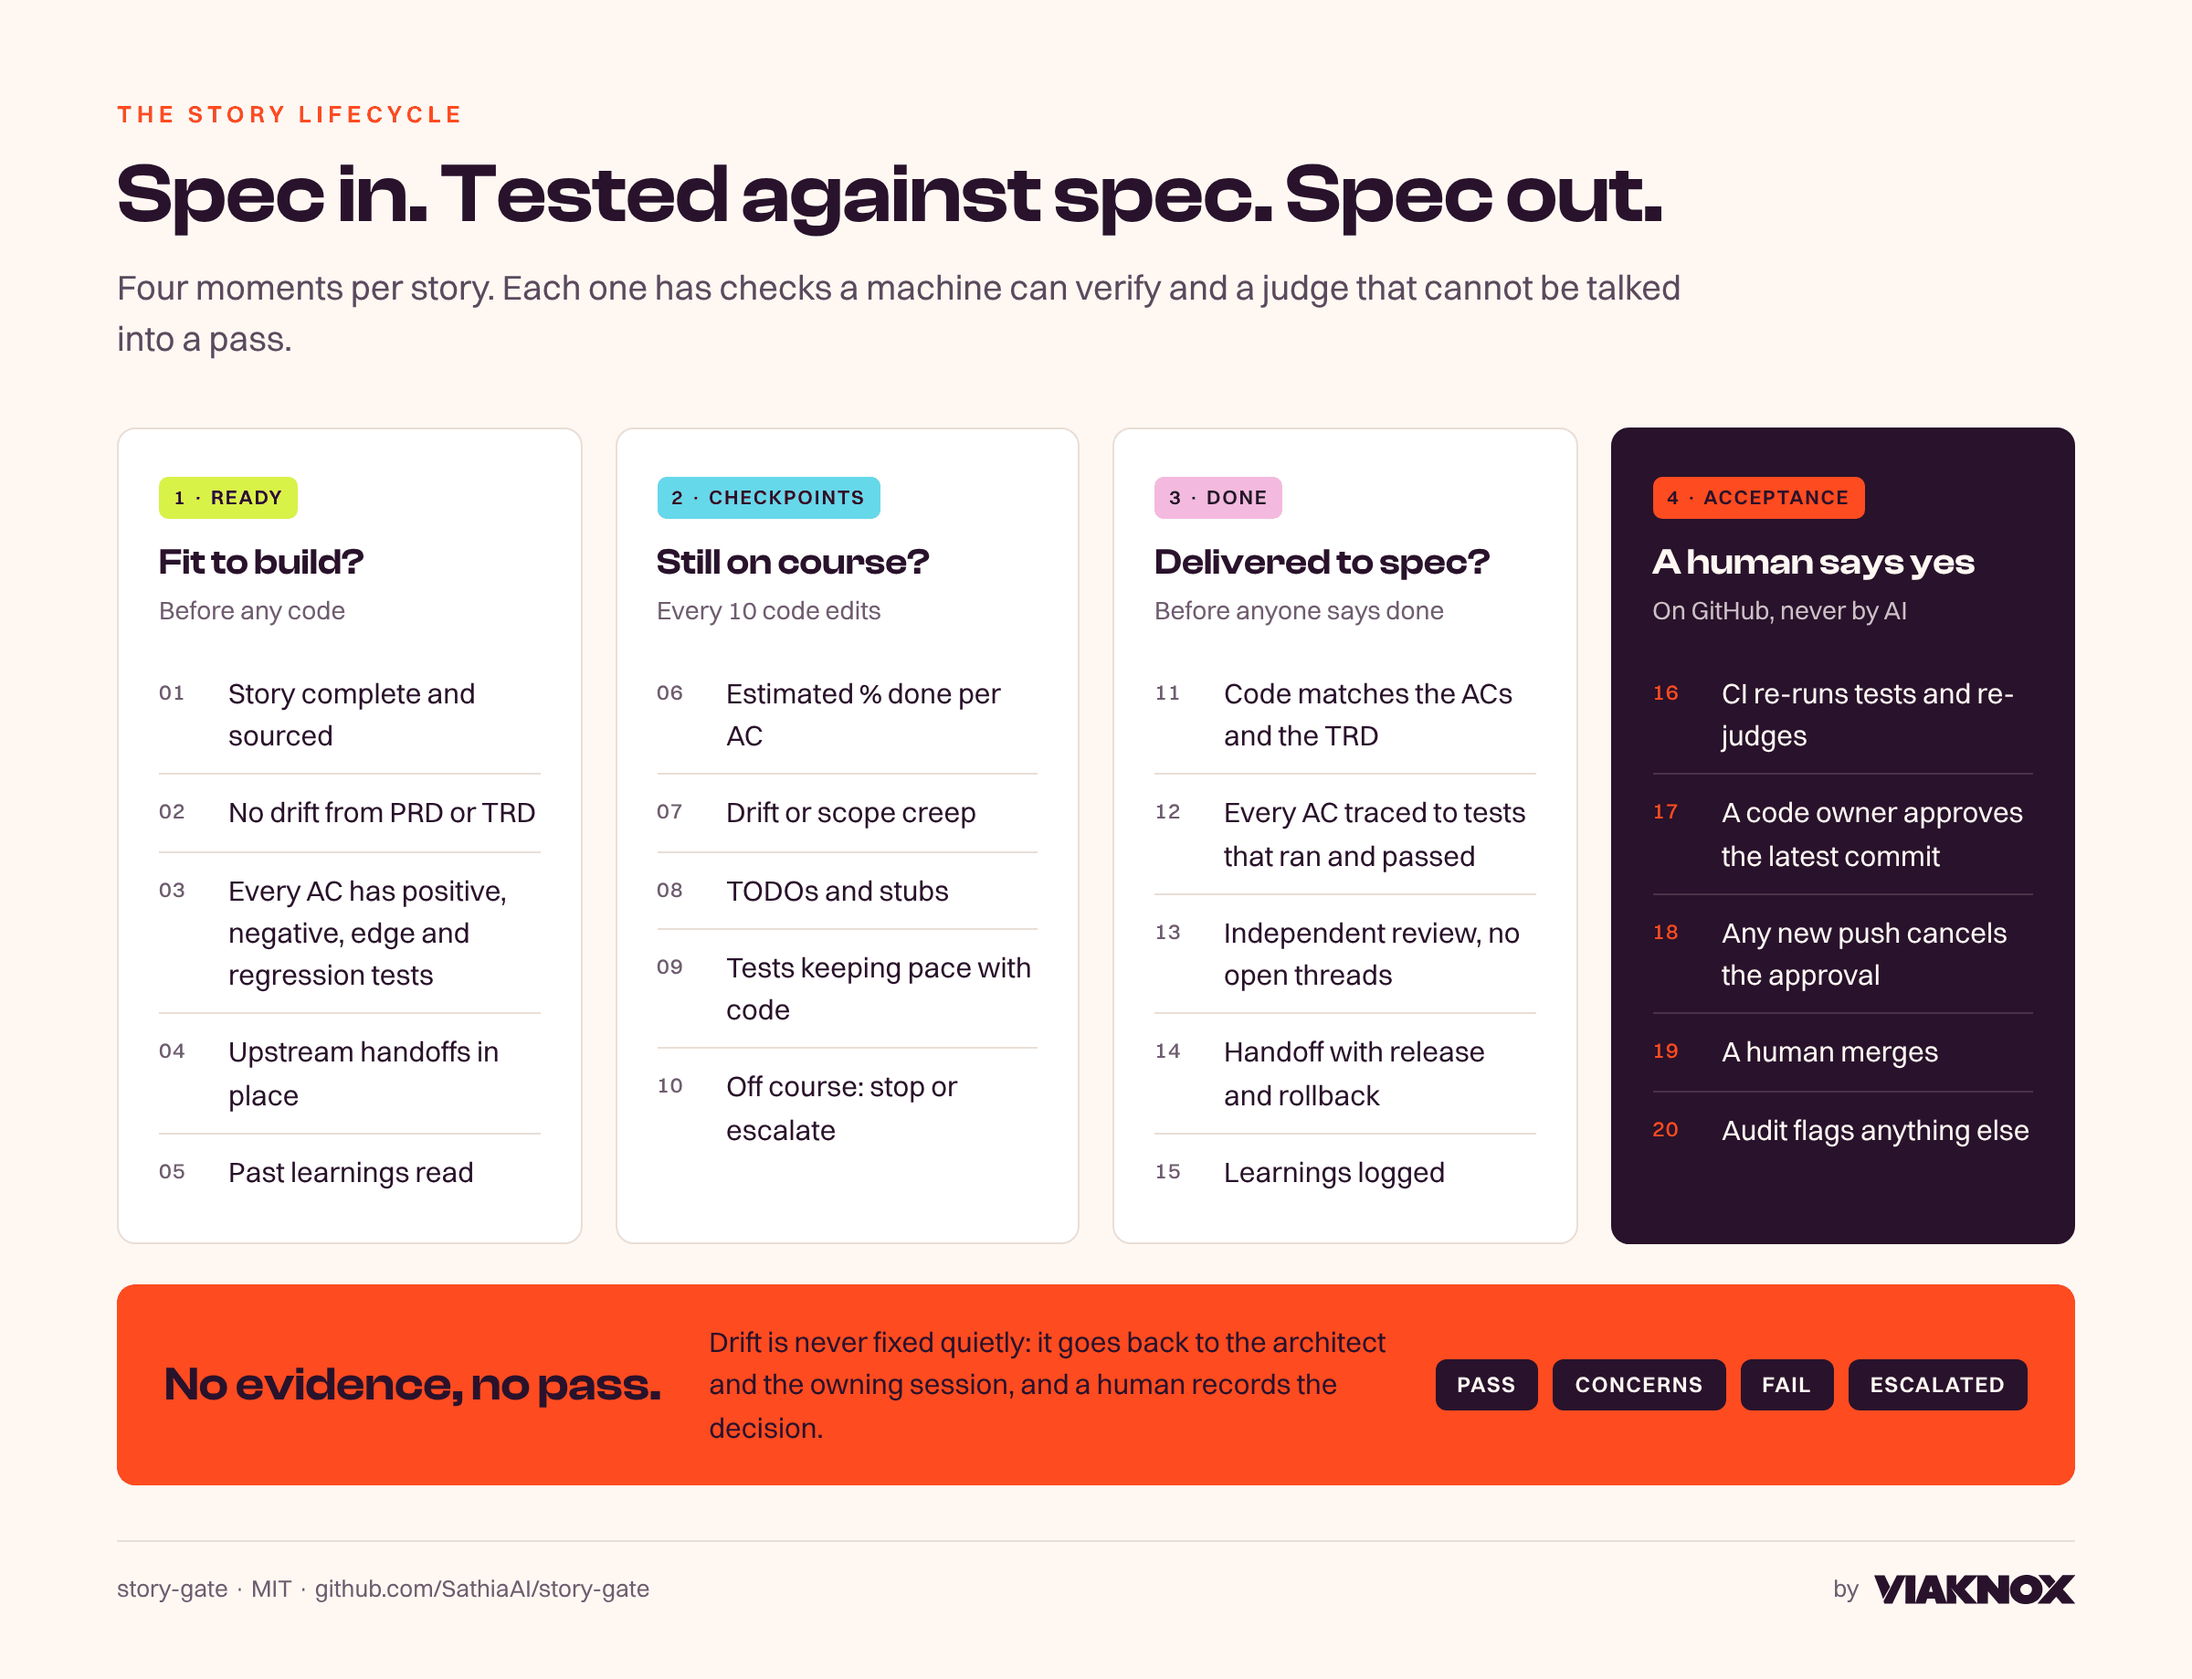
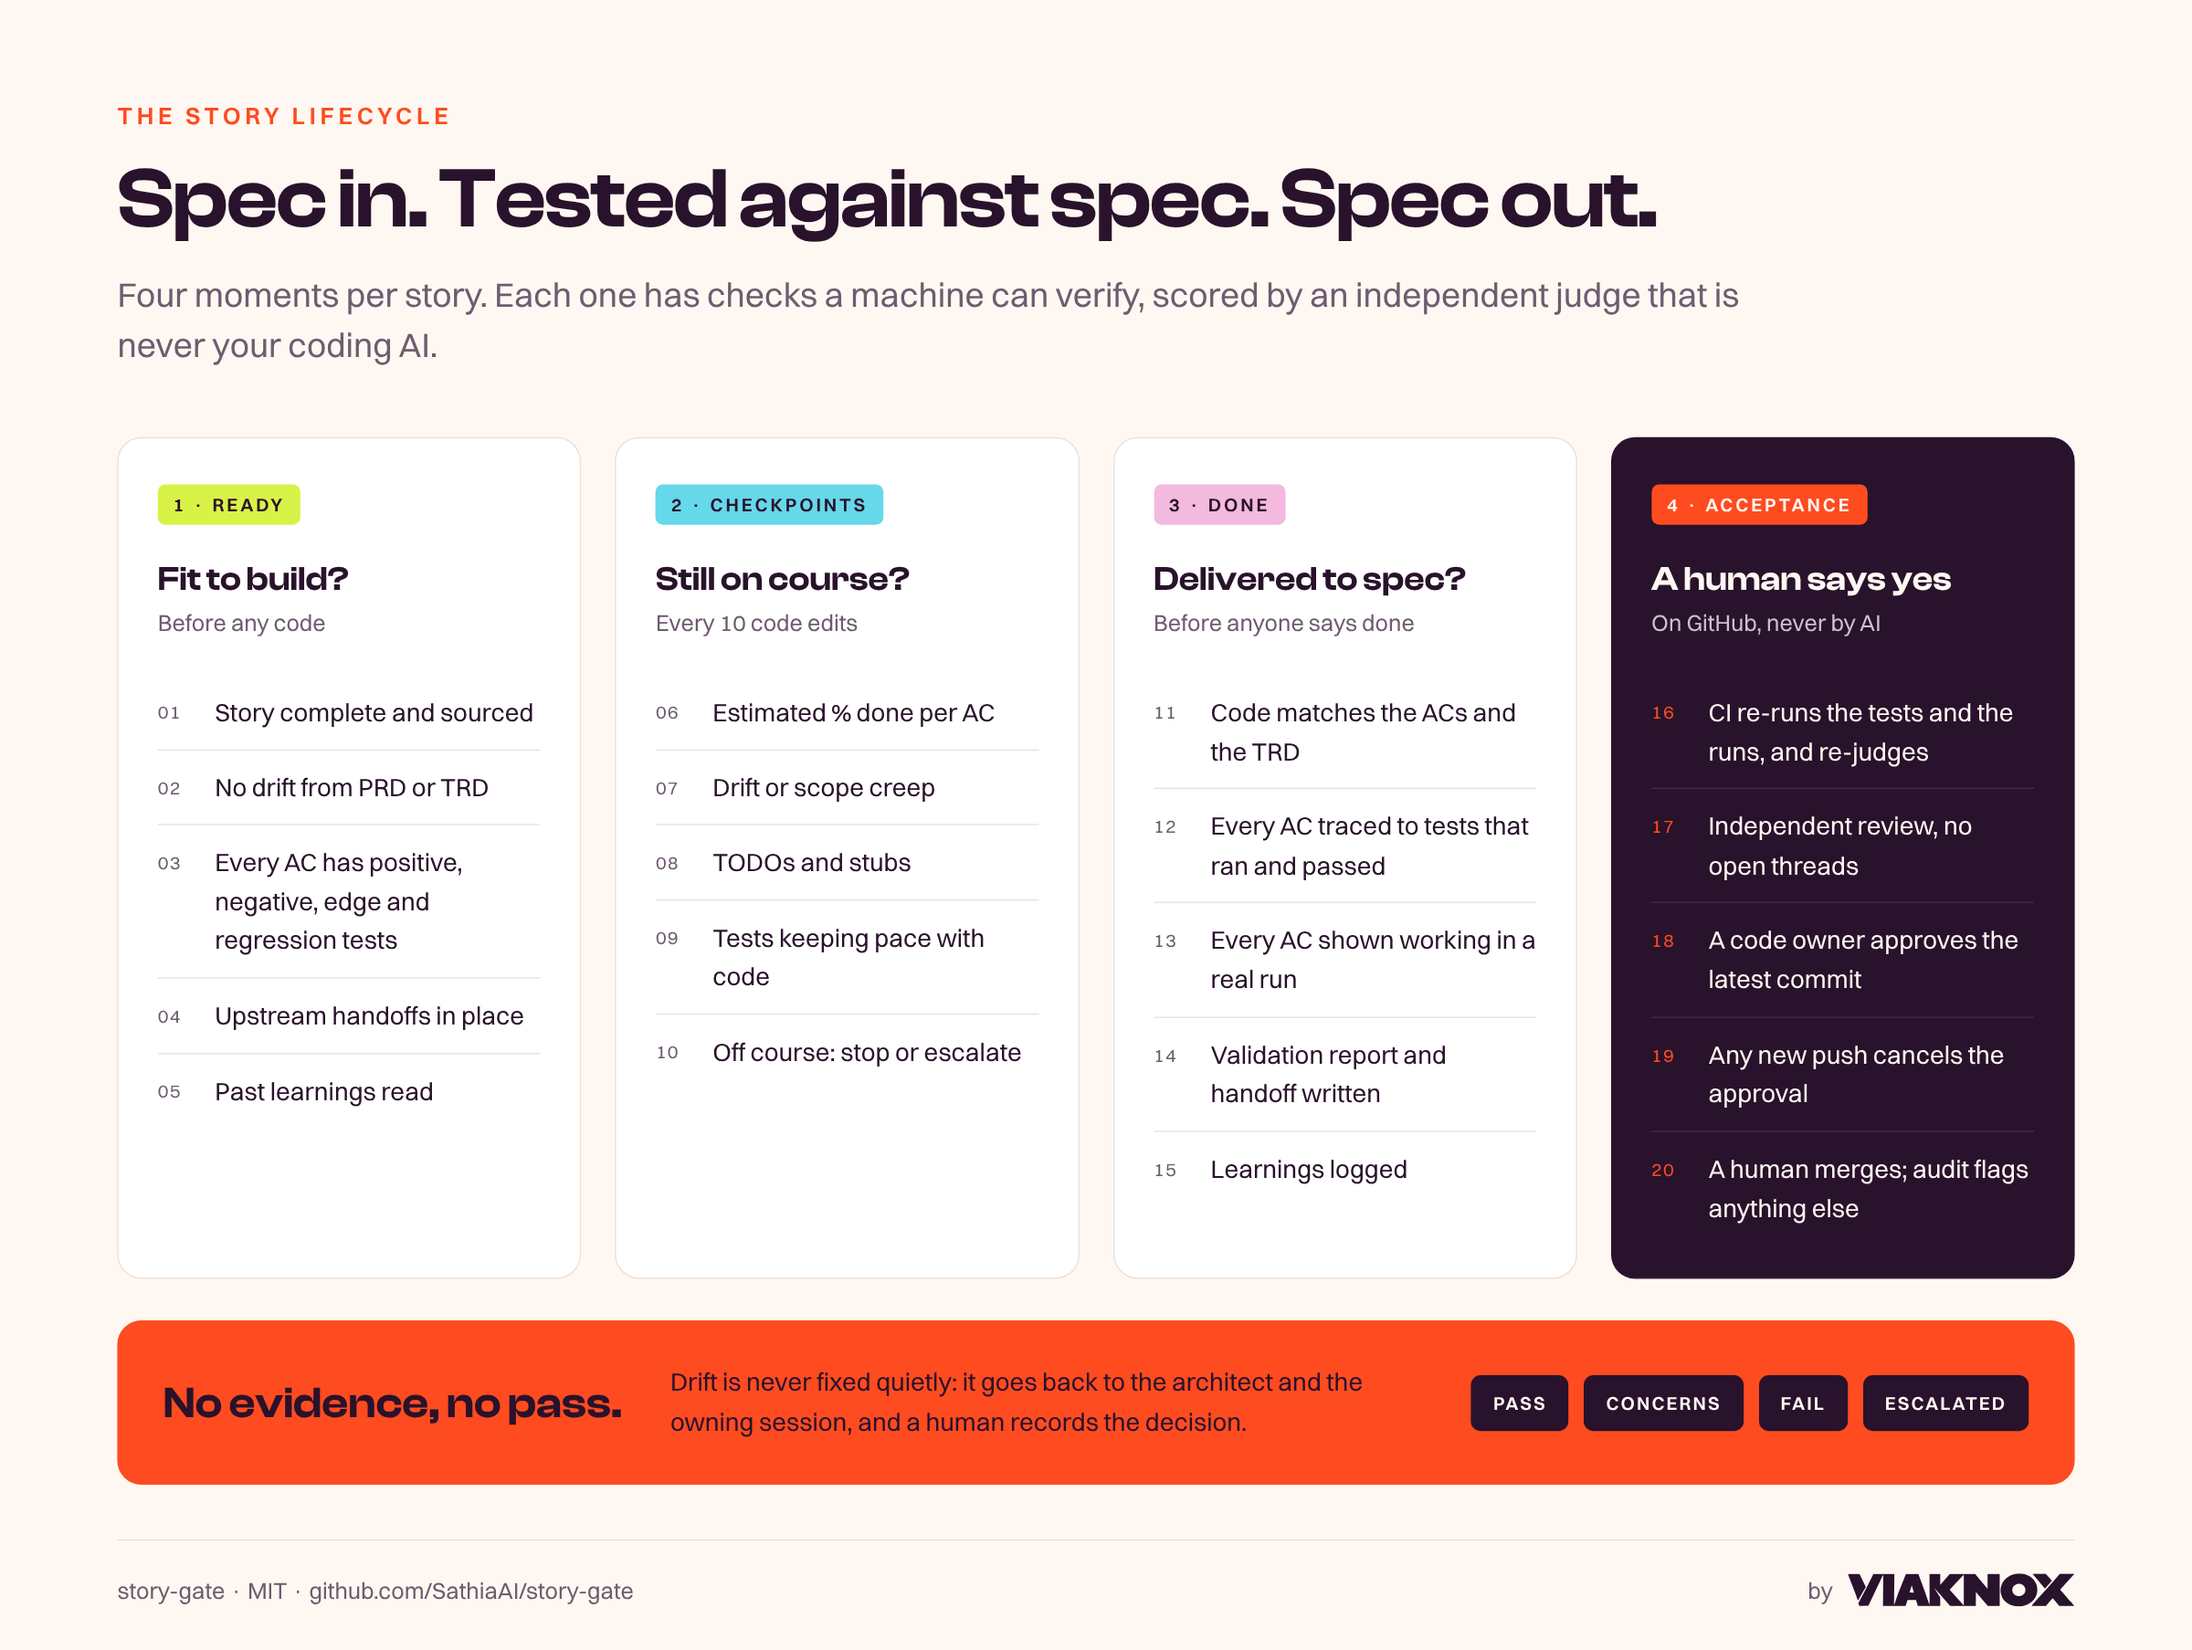
docs: lifecycle image shows the scenario runs and validation report; softer judge line; keep its source
- DONE now lists 'every AC shown working in a real run' and 'validation report and handoff'; ACCEPTANCE says CI
  re-runs the tests and the runs.
- 'a judge that cannot be talked into a pass' becomes 'an independent judge that is never your coding AI'.
- docs/assets/src/lifecycle.html is the source (brand fonts from .story-gate/vendor); render at 2000px wide, 1.2x.

Claude-Session: https://claude.ai/code/session_01929bs6sfYgdxUDiXbAUoKN

diff --git a/docs/assets/src/lifecycle.html b/docs/assets/src/lifecycle.html
@@ -1,0 +1,36 @@
+<!doctype html><html><head><meta charset="utf-8"><style>
+@font-face{font-family:Clash;src:url(../../../.story-gate/vendor/ClashDisplay-600.woff2);font-weight:600}
+@font-face{font-family:Switzer;src:url(../../../.story-gate/vendor/Switzer-400.woff2);font-weight:400}
+@font-face{font-family:Switzer;src:url(../../../.story-gate/vendor/Switzer-600.woff2);font-weight:600}
+*{box-sizing:border-box;margin:0;padding:0}
+body{width:2000px;background:#FFF8F2;color:#29122B;font-family:Switzer;padding:90px 107px 40px}
+.eyebrow{color:#FF4B20;font-weight:600;letter-spacing:.18em;font-size:22px}
+h1{font-family:Clash;font-weight:600;font-size:78px;letter-spacing:-.02em;margin:22px 0 22px;line-height:1.05}
+.lede{font-size:31px;color:#6E5C70;line-height:1.5;max-width:1500px}
+.grid{display:grid;grid-template-columns:repeat(4,1fr);gap:31px;margin-top:60px}
+.card{background:#fff;border:1.5px solid #E9DDD4;border-radius:22px;padding:42px 36px 30px}
+.card.dark{background:#29122B;border-color:#29122B;color:#FFF8F2}
+.tag{display:inline-block;padding:7px 14px;border-radius:7px;font-weight:600;letter-spacing:.14em;font-size:17px}
+h3{font-family:Clash;font-weight:600;font-size:31px;margin:30px 0 6px}
+.sub{color:#6E5C70;font-size:21px}.dark .sub{color:#CDBFCF}
+ul{list-style:none;margin-top:34px}
+li{display:flex;gap:30px;font-size:23px;line-height:1.55;padding:16px 0;border-top:1px solid #E9DDD4}
+li:first-child{border-top:none}.dark li{border-color:#4A2F4D}
+.num{color:#6E5C70;font-size:17px;letter-spacing:.06em;padding-top:5px;min-width:22px}.dark .num{color:#FF4B20}
+.band{margin-top:38px;background:#FF4B20;border-radius:22px;padding:38px 42px;display:flex;align-items:center;gap:44px}
+.band h2{font-family:Clash;font-weight:600;font-size:40px;white-space:nowrap}
+.band p{font-size:23px;line-height:1.6;max-width:640px}
+.pills{display:flex;gap:14px;margin-left:auto}
+.pills span{background:#29122B;color:#FFF8F2;font-weight:600;letter-spacing:.1em;font-size:17px;padding:14px 20px;border-radius:9px}
+footer{margin-top:50px;border-top:1.5px solid #E9DDD4;padding-top:30px;display:flex;justify-content:space-between;align-items:center;font-size:21px;color:#6E5C70}
+footer .by{display:flex;align-items:center;gap:14px} footer svg{height:30px;width:auto}
+</style></head><body>
+<div class="eyebrow">THE STORY LIFECYCLE</div>
+<h1>Spec in. Tested against spec. Spec out.</h1>
+<p class="lede">Four moments per story. Each one has checks a machine can verify, scored by an independent judge that is never your coding AI.</p>
+<div class="grid"><div class="card"><span class="tag" style="background:#D9F247;color:#29122B">1 · READY</span><h3>Fit to build?</h3><div class="sub">Before any code</div><ul><li><span class="num">01</span><span>Story complete and sourced</span></li><li><span class="num">02</span><span>No drift from PRD or TRD</span></li><li><span class="num">03</span><span>Every AC has positive, negative, edge and regression tests</span></li><li><span class="num">04</span><span>Upstream handoffs in place</span></li><li><span class="num">05</span><span>Past learnings read</span></li></ul></div><div class="card"><span class="tag" style="background:#65D8EA;color:#29122B">2 · CHECKPOINTS</span><h3>Still on course?</h3><div class="sub">Every 10 code edits</div><ul><li><span class="num">06</span><span>Estimated % done per AC</span></li><li><span class="num">07</span><span>Drift or scope creep</span></li><li><span class="num">08</span><span>TODOs and stubs</span></li><li><span class="num">09</span><span>Tests keeping pace with code</span></li><li><span class="num">10</span><span>Off course: stop or escalate</span></li></ul></div><div class="card"><span class="tag" style="background:#F4B9DE;color:#29122B">3 · DONE</span><h3>Delivered to spec?</h3><div class="sub">Before anyone says done</div><ul><li><span class="num">11</span><span>Code matches the ACs and the TRD</span></li><li><span class="num">12</span><span>Every AC traced to tests that ran and passed</span></li><li><span class="num">13</span><span>Every AC shown working in a real run</span></li><li><span class="num">14</span><span>Validation report and handoff written</span></li><li><span class="num">15</span><span>Learnings logged</span></li></ul></div><div class="card dark"><span class="tag" style="background:#FF4B20;color:#FFF8F2">4 · ACCEPTANCE</span><h3>A human says yes</h3><div class="sub">On GitHub, never by AI</div><ul><li><span class="num">16</span><span>CI re-runs the tests and the runs, and re-judges</span></li><li><span class="num">17</span><span>Independent review, no open threads</span></li><li><span class="num">18</span><span>A code owner approves the latest commit</span></li><li><span class="num">19</span><span>Any new push cancels the approval</span></li><li><span class="num">20</span><span>A human merges; audit flags anything else</span></li></ul></div></div>
+<div class="band"><h2>No evidence, no pass.</h2><p>Drift is never fixed quietly: it goes back to the architect and the owning session, and a human records the decision.</p>
+<div class="pills"><span>PASS</span><span>CONCERNS</span><span>FAIL</span><span>ESCALATED</span></div></div>
+<footer><span>story-gate · MIT · github.com/SathiaAI/story-gate</span><span class="by">by <svg style="color:#29122B" xmlns="http://www.w3.org/2000/svg" viewBox="0 0 2095 304" width="2095" height="304" role="img"><path fill="currentColor" fill-rule="evenodd" d="M236,4L430,4L427,290L429,289L466,183L537,4L652,5L712,167L754,290L756,260L755,4L854,4L854,106L942,4L1177,4L1290,139L1292,139L1292,4L1404,4L1404,300L1294,300L1184,172L1183,300L946,300L803,137L801,138L854,222L854,300L647,300L630,246L552,246L534,300L325,300L327,13L321,22L190,299L106,300L98,276L99,270L173,131ZM1574,0L1607,1L1635,6L1674,22L1698,38L1720,60L1736,84L1747,112L1752,143L1750,175L1742,204L1732,224L1713,249L1692,268L1655,289L1620,300L1592,304L1561,304L1529,299L1500,289L1466,269L1442,245L1426,220L1415,187L1412,162L1413,138L1420,108L1434,79L1449,59L1471,38L1505,17L1543,4ZM1960,3L2095,3L1964,149L1973,162L1983,171L2054,255L2065,265L2093,300L1955,300L1894,228L1861,264L1832,300L1699,300L1716,278L1886,89ZM0,4L108,4L166,126L94,250L90,244L70,186ZM943,152L1072,296L1072,12L943,149ZM1707,3L1829,3L1877,56L1886,69L1822,139ZM1520,158L1527,180L1541,197L1562,208L1589,210L1599,208L1614,201L1631,186L1640,169L1642,143L1634,122L1616,104L1593,95L1571,95L1553,101L1534,116L1524,132L1520,148ZM570,176L611,177L591,111Z"/></svg>
+</span></footer>
+</body></html>
